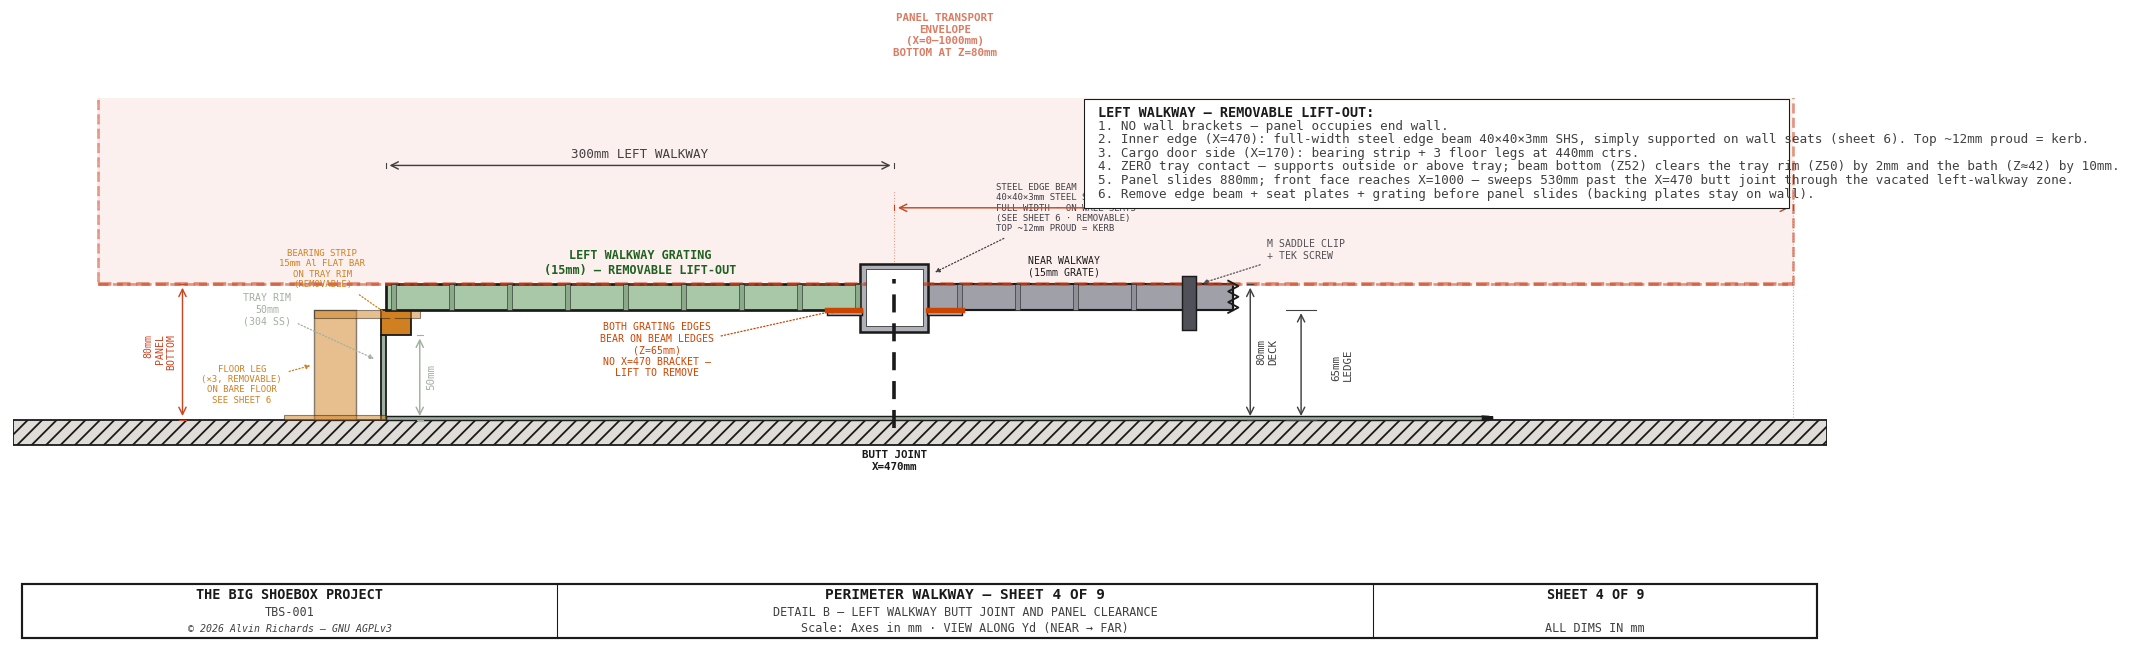
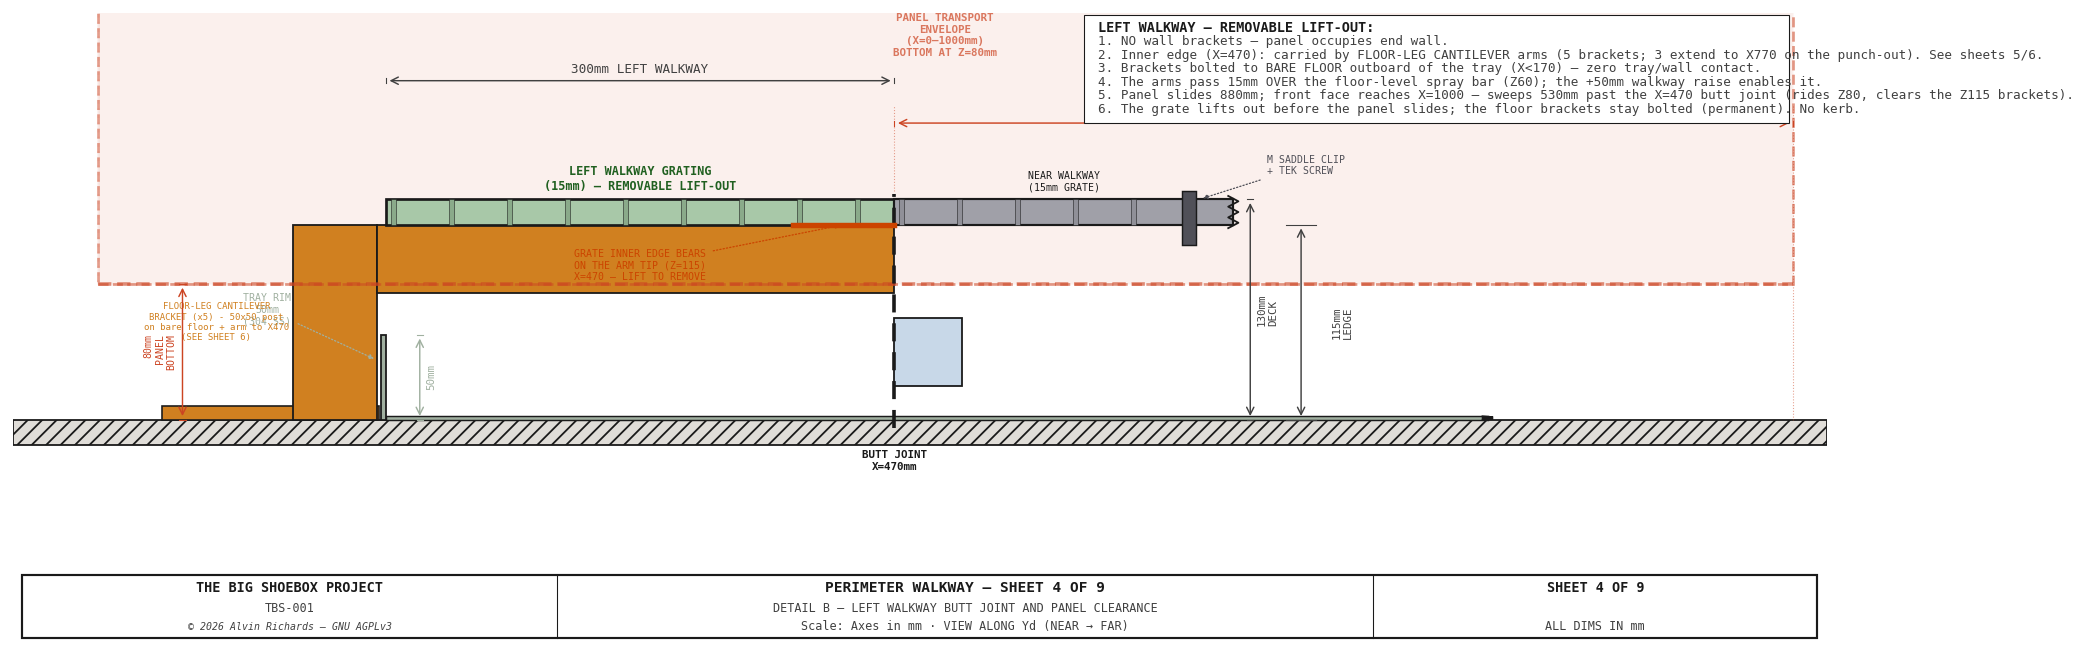
Cascade 1b (2D sheet 4): migrate butt-joint detail to floor-leg bracket
Sheet 4 (butt joint + panel clearance): replace the bearing-strip + floor-leg + edge-
beam support with the floor-leg cantilever bracket (post + arm to X470); the grate
inner edge now bears on the arm tip (Z115); spray bar shown passing under. Notes
updated to the floor-leg design. (Panel envelope auto-refreshes when PANEL_FLOOR_GAP
raises in the panel/drum stage.)

diff --git a/src/generators/generate_walkway_diagram.py b/src/generators/generate_walkway_diagram.py
@@ -1556,72 +1556,26 @@ def sheet4():
            f"TRAY RIM\n{PROC_TRAY_RIM}mm\n(304 SS)", color=C_TRAY, fs=5.5,
            ha="center", va="center", arrow_style="-|>", font=FONT)
 
-    # ── Bearing strip on tray rim (25×25mm Al angle) ─────────────────────────
+    # ── Floor-leg cantilever bracket carrying the grate inner edge (X470) ─────
     C_SUPPORT = "#D08020"
-    STRIP_H = LEFT_WK_BEARING_STRIP   # = 15mm
-    strip_bot = PROC_TRAY_RIM         # = 50mm (sits on rim top)
-    strip_top = strip_bot + STRIP_H   # = 65mm (= grate bottom)
-    ax.add_patch(Rectangle((sx(tray_x - TRAY_WALL), sy(strip_bot)),
-                            sx(STRIP_H + TRAY_WALL), sy(STRIP_H),
+    legx = LEFT_WK_CANT_LEG_X
+    post = LEFT_WK_CANT_POST
+    fl, fw, ft = LEFT_WK_CANT_FOOT
+    fx0 = LEFT_WK_CANT_FOOT_X0
+    arm_z0 = LEFT_WK_CANT_ARM_Z0
+    arm_x0 = legx + post / 2
+    ax.add_patch(Rectangle((sx(fx0), sy(0)), sx(fl), sy(ft),
+                            fc=C_SUPPORT, ec=C_OUT, lw=0.9, zorder=5))
+    ax.add_patch(Rectangle((sx(legx - post / 2), sy(0)), sx(post), sy(grate_bot),
                             fc=C_SUPPORT, ec=C_OUT, lw=1.0, zorder=5))
-    leader(ax, sx(tray_x + STRIP_H / 2), sy(strip_bot + STRIP_H / 2),
-           sx(tray_x + STRIP_H / 2 - 45), sy(strip_bot + STRIP_H + 12),
-           f"BEARING STRIP\n15mm Al FLAT BAR\nON TRAY RIM\n(REMOVABLE)",
-           color=C_SUPPORT, fs=5,
-           ha="center", va="bottom", arrow_style="-|>", font=FONT)
-
-    # ── Floor-standing support leg (cargo door side, X≈140) ────────────────
-    OUTER_LEG_X = tray_x - 30   # = 140mm (on bare floor, outside tray)
-    LEG_W = LEFT_WK_LEG_SIZE    # = 25mm
-    LEG_TOP = strip_top          # = 65mm (cantilever arm top = grate bottom)
-    base = LEFT_WK_LEG_BASE     # 60mm
-    # Leg post
-    ax.add_patch(Rectangle((sx(OUTER_LEG_X - LEG_W / 2), sy(0)),
-                            sx(LEG_W), sy(LEG_TOP),
-                            fc=C_SUPPORT, ec=C_OUT, lw=0.8, alpha=0.5, zorder=4))
-    # Foot plate (sits on floor)
-    ax.add_patch(Rectangle((sx(OUTER_LEG_X - base / 2), sy(0)),
-                            sx(base), sy(3),
-                            fc=C_SUPPORT, ec=C_OUT, lw=0.6, alpha=0.5, zorder=4))
-    # Cantilever arm from leg to walkway edge
-    ax.add_patch(Rectangle((sx(OUTER_LEG_X - LEG_W / 2), sy(LEG_TOP - 5)),
-                            sx(tray_x + 20 - OUTER_LEG_X + LEG_W / 2), sy(5),
-                            fc=C_SUPPORT, ec=C_OUT, lw=0.6, alpha=0.5, zorder=5))
-    # Leg label
-    leader(ax, sx(OUTER_LEG_X - LEG_W/2), sy(LEG_TOP / 2),
-           sx(OUTER_LEG_X - 55), sy(LEG_TOP / 2),
-           f"FLOOR LEG\n(\u00d7{LEFT_WK_LEG_N}, REMOVABLE)\nON BARE FLOOR\nSEE SHEET 6",
-           color=C_SUPPORT, fs=5,
-           ha="center", va="top", arrow_style="-|>", font=FONT)
-
-    # ── Steel edge beam cross-section at X=470 (the butt-joint support) ───────
-    # Full-width 40x40 steel SHS in the Z52-92 envelope (kerb proud of the Z80
-    # deck; bottom clears the tray rim Z50 by 2mm). Both the left grating and the
-    # near/far door-end grating bear on its Z65 ledges; simply supported on seats.
-    BEAM_SZ = LEFT_WK_BEARER_SIZE  # = 40mm
-    beam_bot = LEFT_WK_BEAM_Z0       # Z = 52mm
-    beam_top = LEFT_WK_BEAM_Z1       # Z = 92mm (kerb top)
-    beam_l = LEFT_WK_R - BEAM_SZ / 2
-    ax.add_patch(Rectangle((sx(beam_l), sy(beam_bot)),
-                            sx(BEAM_SZ), sy(BEAM_SZ),
-                            fc=C_STEEL, ec=C_OUT, lw=1.4, zorder=8))
-    # Hollow interior
-    ax.add_patch(Rectangle((sx(beam_l + LEFT_WK_BEARER_T),
-                             sy(beam_bot + LEFT_WK_BEARER_T)),
-                            sx(BEAM_SZ - 2 * LEFT_WK_BEARER_T),
-                            sy(BEAM_SZ - 2 * LEFT_WK_BEARER_T),
-                            fc=BG, ec=C_OUT, lw=0.4, zorder=9))
-    # Grating-bearing ledges (Z65) on both faces
-    for lx in (beam_l - 20, beam_l + BEAM_SZ - 1):
-        ax.add_patch(Rectangle((sx(lx), sy(grate_bot - 3)),
-                                sx(21), sy(3), fc=C_STEEL, ec=C_OUT, lw=0.8, zorder=9))
-    leader(ax, sx(LEFT_WK_R + BEAM_SZ / 2 + 2), sy(beam_top - 6),
-           sx(LEFT_WK_R + BEAM_SZ / 2 + 40), sy(beam_top + 18),
-           f"STEEL EDGE BEAM\n{BEAM_SZ}\u00d7{BEAM_SZ}\u00d7{LEFT_WK_BEARER_T}mm STEEL SHS\n"
-           f"FULL WIDTH \u00b7 ON WALL SEATS\n(SEE SHEET 6 \u00b7 REMOVABLE)\n"
-           f"TOP ~12mm PROUD = KERB",
-           color="#404048", fs=5,
-           ha="left", va="bottom", arrow_style="-|>", font=FONT)
+    ax.add_patch(Rectangle((sx(arm_x0), sy(arm_z0)), sx(LEFT_WK_R - arm_x0),
+                            sy(grate_bot - arm_z0), fc=C_SUPPORT, ec=C_OUT, lw=1.0, zorder=6))
+    leader(ax, sx(legx), sy(grate_bot * 0.5), sx(legx - 70), sy(grate_bot * 0.5),
+           "FLOOR-LEG CANTILEVER\nBRACKET (x5) - 50x50 post\non bare floor + arm to X470\n(SEE SHEET 6)",
+           color=C_SUPPORT, fs=5, ha="center", va="center", arrow_style="-|>", font=FONT)
+    # Spray bar passes under the arm tip (Z20-60, stays at floor level)
+    ax.add_patch(Rectangle((sx(LEFT_WK_R), sy(SPRAY_BAR_Z_BOT)), sx(40),
+                            sy(SPRAY_BAR_Z_TOP - SPRAY_BAR_Z_BOT), fc="#C8D8E8", ec=C_OUT, lw=1.0, zorder=4))
 
     # ── Panel transport envelope (ghost) ─────────────────────────────────────
     # Panel sweeps X=0 to X=420, bottom at Z=80mm (PANEL_FLOOR_GAP)
@@ -1659,20 +1613,12 @@ def sheet4():
             ha="center", va="bottom", fontsize=6.5, color="#206020",
             fontweight="bold", **FONT, zorder=15)
 
-    # -- No X=470 cantilever bracket -- the edge beam carries the door-end ----
-    # The full-width edge beam picks up both the left grating and the near/far
-    # walkways' door-end grate edges, so no separate bracket sits at X=470.
-    # Both grating decks bear on the beam's Z65 ledges (drawn above).
-    ax.plot([sx(beam_l - 20), sx(beam_l)],
-            [sy(grate_bot), sy(grate_bot)],
+    # -- The grate inner edge (X470) bears on the cantilever-arm tip (Z115) -----
+    ax.plot([sx(LEFT_WK_R - 60), sx(LEFT_WK_R)], [sy(grate_bot), sy(grate_bot)],
             color="#CC4400", lw=3.0, zorder=10)
-    ax.plot([sx(beam_l + BEAM_SZ), sx(beam_l + BEAM_SZ + 20)],
-            [sy(grate_bot), sy(grate_bot)],
-            color="#CC4400", lw=3.0, zorder=10)
-    leader(ax, sx(beam_l - 12), sy(grate_bot),
-           sx(LEFT_WK_R - 140), sy(grate_bot - 24),
-           f"BOTH GRATING EDGES\nBEAR ON BEAM LEDGES\n(Z={int(grate_bot)}mm)\n"
-           f"NO X={LEFT_WK_R} BRACKET \u2014\nLIFT TO REMOVE",
+    leader(ax, sx(LEFT_WK_R - 30), sy(grate_bot),
+           sx(LEFT_WK_R - 150), sy(grate_bot - 24),
+           f"GRATE INNER EDGE BEARS\nON THE ARM TIP (Z={int(grate_bot)})\nX={LEFT_WK_R} \u2014 LIFT TO REMOVE",
            color="#CC4400", fs=5.5,
            ha="center", va="center", arrow_style="-|>", font=FONT)
 
@@ -1762,11 +1708,11 @@ def sheet4():
     notes = [
         "LEFT WALKWAY \u2014 REMOVABLE LIFT-OUT:",
         f"1. NO wall brackets \u2014 panel occupies end wall.",
-        f"2. Inner edge (X={LEFT_WK_R}): full-width steel edge beam {LEFT_WK_BEARER_SIZE}\u00d7{LEFT_WK_BEARER_SIZE}\u00d7{LEFT_WK_BEARER_T}mm SHS, simply supported on wall seats (sheet 6). Top ~12mm proud = kerb.",
-        f"3. Cargo door side (X={LEFT_WK_L}): bearing strip + {LEFT_WK_LEG_N} floor legs at {leg_spacing}mm ctrs.",
-        f"4. ZERO tray contact \u2014 supports outside or above tray; beam bottom (Z52) clears the tray rim (Z50) by 2mm and the bath (Z\u224842) by 10mm.",
-        f"5. Panel slides {PANEL_SLIDE}mm; front face reaches X={PANEL_INNER} — sweeps {SLIDE_OVER}mm past the X={LEFT_WK_R} butt joint through the vacated left-walkway zone.",
-        f"6. Remove edge beam + seat plates + grating before panel slides (backing plates stay on wall).",
+        f"2. Inner edge (X={LEFT_WK_R}): carried by FLOOR-LEG CANTILEVER arms (5 brackets; 3 extend to X770 on the punch-out). See sheets 5/6.",
+        f"3. Brackets bolted to BARE FLOOR outboard of the tray (X<{LEFT_WK_L}) \u2014 zero tray/wall contact.",
+        f"4. The arms pass 15mm OVER the floor-level spray bar (Z60); the +50mm walkway raise enables it.",
+        f"5. Panel slides {PANEL_SLIDE}mm; front face reaches X={PANEL_INNER} \u2014 sweeps {SLIDE_OVER}mm past the X={LEFT_WK_R} butt joint (rides Z{PANEL_FLOOR_GAP}, clears the Z115 brackets).",
+        f"6. The grate lifts out before the panel slides; the floor brackets stay bolted (permanent). No kerb.",
     ]
     draw_notes(ax, notes, notes_x, notes_top, spacing=sy(8), fs=7, width=sx(400), font=FONT)
 
